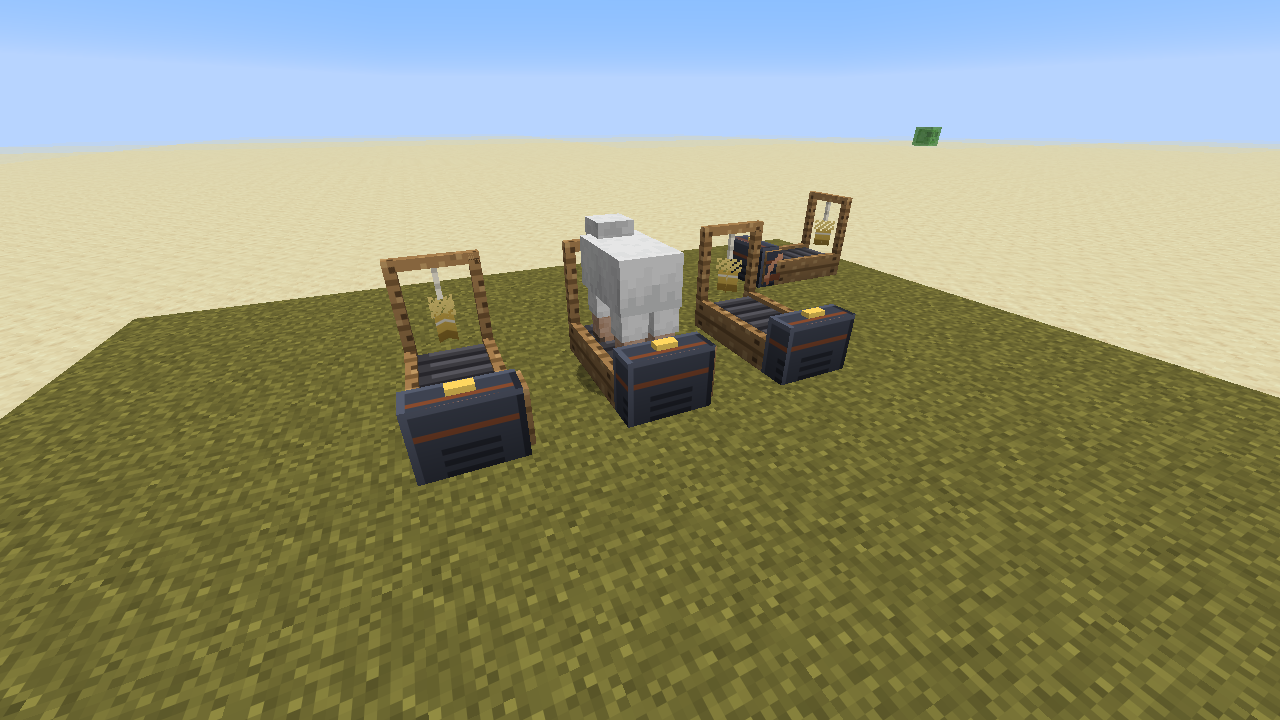
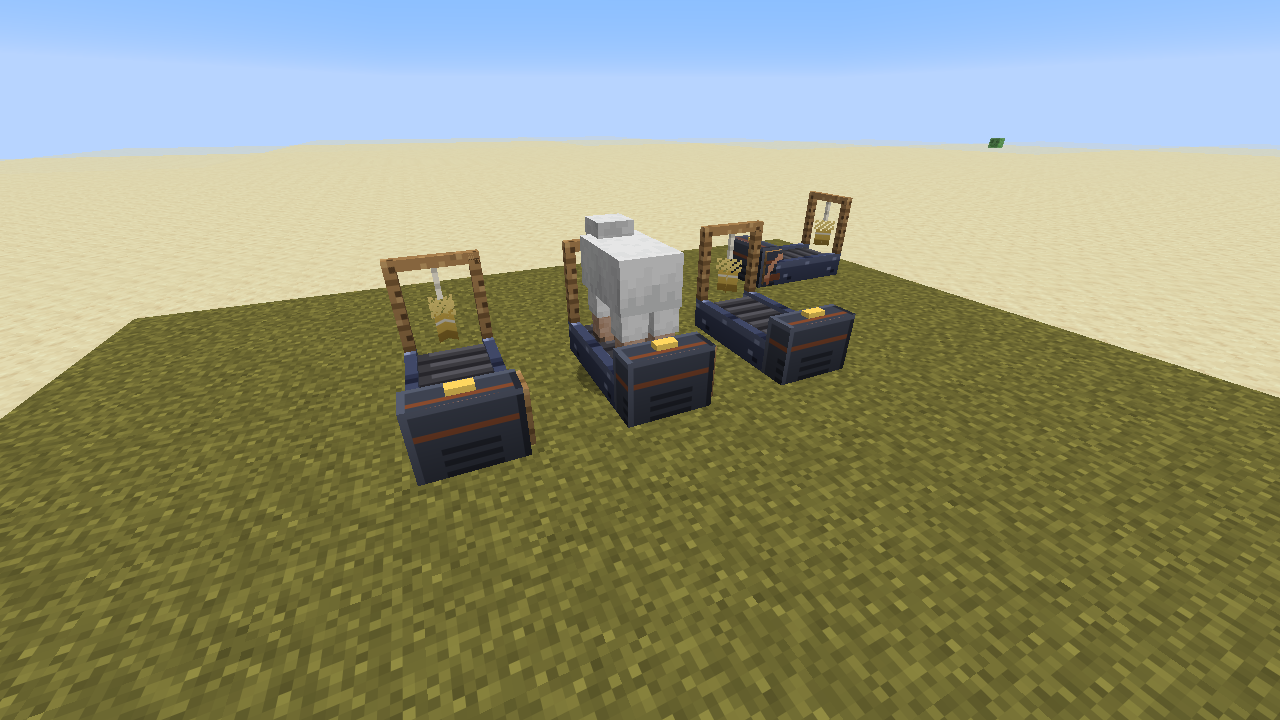
Make the Sheep Treadmill's side rails blue steel
Claude-Session: https://claude.ai/code/session_012iurxobutw9xMP3SqHHLFE

diff --git a/tools/sheep/generate_textures.py b/tools/sheep/generate_textures.py
@@ -3675,7 +3675,7 @@ def generate_woollen_icons():
 
 
 def generate_sheep_treadmill():
-    """Sheep Treadmill (WIP preview): an oak frame and belt between steel rollers, a gantry with wheat hanging on a
+    """Sheep Treadmill (WIP preview): a belt between blue steel side rails and steel rollers, an oak gantry with wheat hanging on a
     string, and a slate generator housing at the back with a copper flywheel. Also writes its block and item models."""
     import json
     rnd = random.Random(31)
@@ -3702,6 +3702,18 @@ def generate_sheep_treadmill():
     for y in (1, 5, 9, 13):
         frame.putpixel((1, y), OAK_DD); frame.putpixel((14, y), OAK_DD)
     frame.save(out("block/sheep_treadmill/frame.png"))
+
+    # Side rails: dark blue steel, like the Hume machines, with a bright top edge, a groove and bolts.
+    BSTEEL, BSTEEL_L, BSTEEL_D, BSTEEL_DD, BOLT = hexc("#3f4766"), hexc("#5d6687"), hexc("#2c324c"), hexc("#1f2338"), hexc("#8d97bc")
+    rail = Image.new("RGBA", (16, 16), BSTEEL)
+    for x in range(16):
+        rail.putpixel((x, 0), BSTEEL_L); rail.putpixel((x, 1), BSTEEL_L if x % 7 else BOLT)
+        rail.putpixel((x, 15), BSTEEL_DD); rail.putpixel((x, 14), BSTEEL_D)
+        rail.putpixel((x, 7), BSTEEL_D); rail.putpixel((x, 8), BSTEEL_DD)
+    for x in (2, 13):
+        for y in (4, 11):
+            rail.putpixel((x, y), BOLT); rail.putpixel((x + 1, y + 1), BSTEEL_DD)
+    rail.save(out("block/sheep_treadmill/rail.png"))
 
     # Belt: dark slats across it with a lighter tread on each.
     belt = Image.new("RGBA", (16, 16), BELT)
@@ -3801,8 +3813,8 @@ def generate_sheep_treadmill():
             el["faces"][face] = {"uv": [0, 0, min(w, 16), min(h, 16)], "texture": "#" + faces.get(face, tex)}
         return el
     elements = [
-        box([0, 0, -16], [2, 7, 10], "frame"),                       # left rail
-        box([14, 0, -16], [16, 7, 10], "frame"),                     # right rail
+        box([0, 0, -16], [2, 7, 10], "rail"),                        # left rail
+        box([14, 0, -16], [16, 7, 10], "rail"),                      # right rail
         box([2, 1, -15], [14, 5, -11], "roller"),                    # front roller
         box([2, 5, -14], [14, 6, 10], "belt"),                       # belt
         box([2, 1, -11], [14, 2, 10], "belt"),                       # the belt's return run
@@ -3818,7 +3830,7 @@ def generate_sheep_treadmill():
     for rot in (45, -45):
         elements.append({"from": [5, 8, -15], "to": [11, 16, -15], "rotation": {"angle": rot, "axis": "y", "origin": [8, 12, -15]},
                          "faces": {"north": {"uv": [3, 1, 13, 15], "texture": "#wheat"}, "south": {"uv": [3, 1, 13, 15], "texture": "#wheat"}}})
-    textures = {k: T + k for k in ("frame", "belt", "roller", "housing_side", "housing_front", "housing_top", "flywheel", "wheat", "rope", "lamp")}
+    textures = {k: T + k for k in ("frame", "rail", "belt", "roller", "housing_side", "housing_front", "housing_top", "flywheel", "wheat", "rope", "lamp")}
     textures["particle"] = T + "frame"
     models = os.path.join(ROOT, "..", "models")
     with open(os.path.join(models, "block", "sheep_treadmill.json"), "w") as fh:

diff --git a/docs/REFERENCE.md b/docs/REFERENCE.md
@@ -75,7 +75,7 @@ Craft a **Contraptions Manual** (a book and a Functional Machine Block) and righ
 
   | Sheep Treadmill (WIP model) | From the side |
   |---|---|
-  | ![Three Sheep Treadmills side by side and one turned the other way: oak frames with dark belts, a gantry at the front with a bundle of wheat hanging on a string, and a slate generator housing at the back with a yellow lamp; a sheep stands on the middle one facing the wheat](screenshots/wip_sheep_treadmill.png) | ![A Sheep Treadmill from the side: the slatted belt between oak rails, the wheat gantry at the front and the generator housing at the back](screenshots/wip_sheep_treadmill_side.png) |
+  | ![Three Sheep Treadmills side by side and one turned the other way: dark belts between blue steel side rails, an oak gantry at the front with a bundle of wheat hanging on a string, and a slate generator housing at the back with a yellow lamp; a sheep stands on the middle one facing the wheat](screenshots/wip_sheep_treadmill.png) | ![A Sheep Treadmill from the side: the slatted belt between blue steel side rails, the wheat gantry at the front and the generator housing at the back](screenshots/wip_sheep_treadmill_side.png) |
 
   A resource pack's guide file puts a chapter here with `"tab": "wip"`, and can give it a `"fallback_icon"` to show when its `"icon"` item isn't in the game.
 
